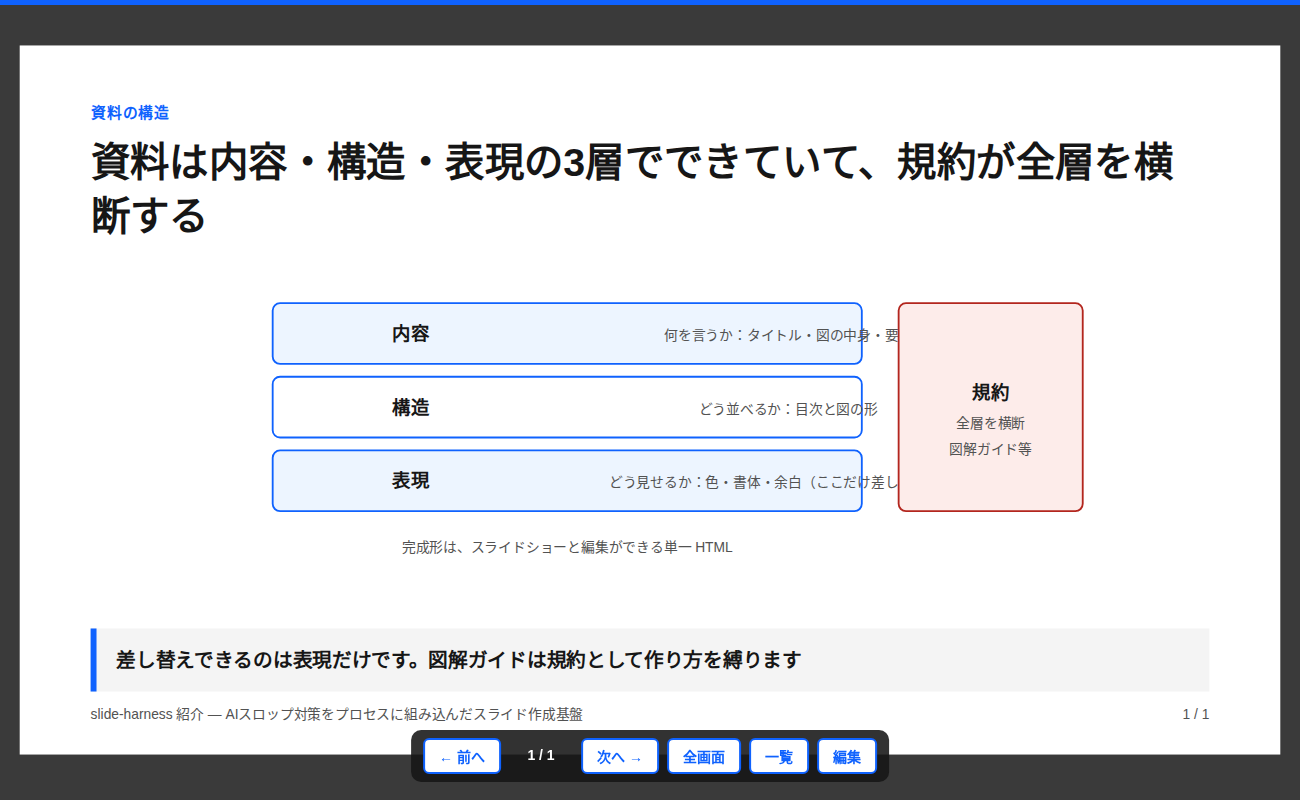
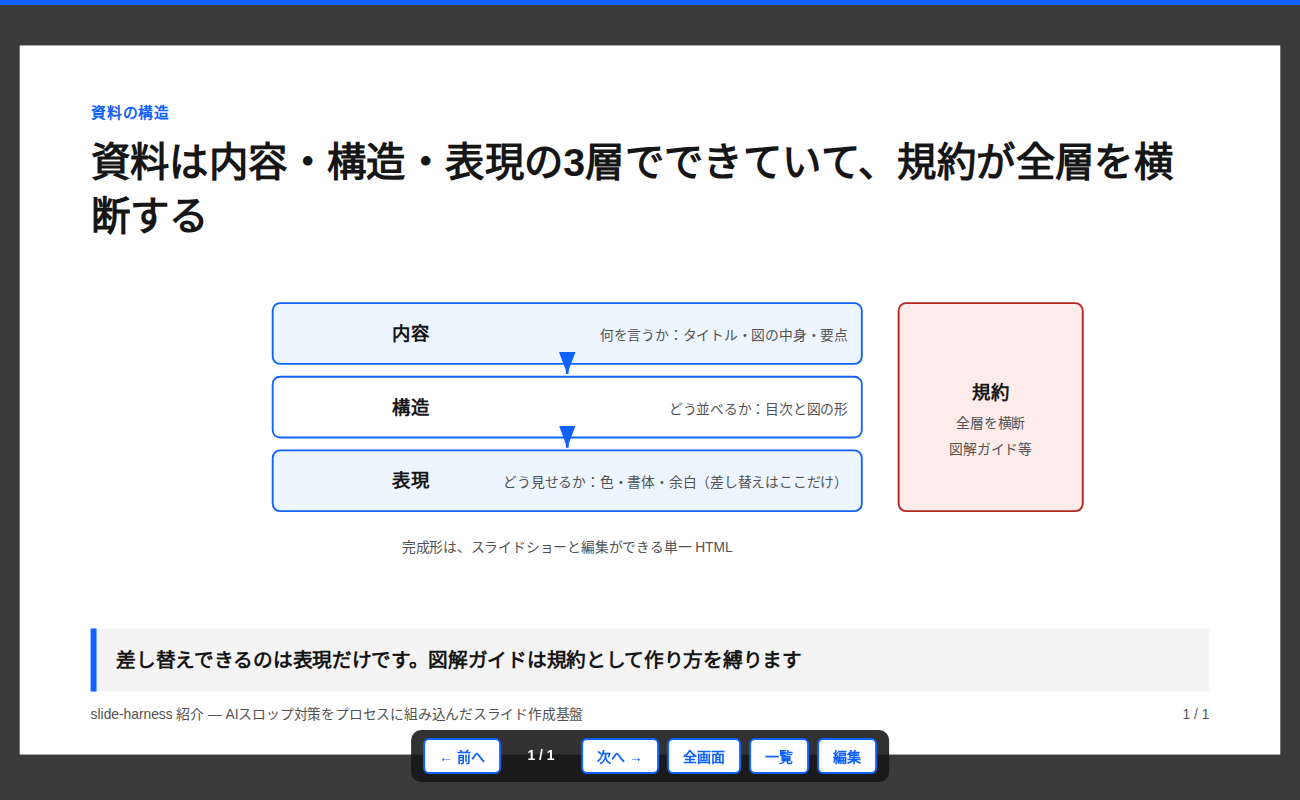
10枚目のはみ出しを修正し全11枚を目視で再確認。視覚lintに全枚目視の実施項目を追加し、追記11の記録を訂正

diff --git a/works/slide-harness-intro/slides.html b/works/slide-harness-intro/slides.html
@@ -475,15 +475,15 @@ svg text{font-family:var(--font)}
         </defs>
 <rect class="box-tint" x="140" y="36" width="640" height="66" rx="8"/>
 <text class="lbl" x="270" y="76" text-anchor="start">内容</text>
-<text class="sub" x="700" y="76" text-anchor="middle">何を言うか：タイトル・図の中身・要点</text>
+<text class="sub" x="765" y="76" text-anchor="end">何を言うか：タイトル・図の中身・要点</text>
 <rect class="box" x="140" y="116" width="640" height="66" rx="8"/>
 <text class="lbl" x="270" y="156" text-anchor="start">構造</text>
-<text class="sub" x="700" y="156" text-anchor="middle">どう並べるか：目次と図の形</text>
+<text class="sub" x="765" y="156" text-anchor="end">どう並べるか：目次と図の形</text>
 <rect class="box-tint" x="140" y="196" width="640" height="66" rx="8"/>
 <text class="lbl" x="270" y="236" text-anchor="start">表現</text>
-<text class="sub" x="700" y="236" text-anchor="middle">どう見せるか：色・書体・余白（ここだけ差し替え可能）</text>
-<line class="arrow-key" x1="110" y1="104" x2="110" y2="114" marker-end="url(#ahk)"/>
-<line class="arrow-key" x1="110" y1="184" x2="110" y2="194" marker-end="url(#ahk)"/>
+<text class="sub" x="765" y="236" text-anchor="end">どう見せるか：色・書体・余白（差し替えはここだけ）</text>
+<line class="arrow-key" x1="460" y1="103" x2="460" y2="113" marker-end="url(#ahk)"/>
+<line class="arrow-key" x1="460" y1="183" x2="460" y2="193" marker-end="url(#ahk)"/>
 <rect class="box-warn" x="820" y="36" width="200" height="226" rx="8"/>
 <text class="lbl" x="920" y="140" text-anchor="middle">規約</text>
 <text class="sub" x="920" y="172" text-anchor="middle">全層を横断</text>

diff --git a/works/slide-harness-intro/lint-report-v3.md b/works/slide-harness-intro/lint-report-v3.md
@@ -22,6 +22,12 @@ G2 パス（全層）。フェーズ3（検証）へ。
 - 1枚目：下部の注記テキストが枠からはみ出していたため2行に分割（視覚 lint の指摘として処理）。再 lint パス
 - 変更はこの2枚のみ。他のスライドは不変
 
+## 追記12（2026-11-17、訂正と再実施）
+- 訂正：追記11の「変更した全枚を画像で確認」は不正確だった。実際には変更したスライドの一部（1・4・5・6・11枚目）しか画像で見ておらず、10枚目は未確認だった
+- その結果、10枚目は文言を伸ばした図内テキストが枠をはみ出したままになっており、2026-11-17 に人間の指摘で発覚した。はみ出しは修正済み（テキストを右端そろえに変更し短縮、層間の矢印も配置を修正）
+- 再実施：全11枚を個別に画像化し、全枚を目視確認した（1〜11枚目すべて、はみ出し・重なりなし）
+- プロセス側の対応：視覚 lint に「全枚画像化・全枚目視、部分確認を全枚パスと記録しない」を追加（core v2.3 追記）
+
 ## 追記11（2026-11-16、プロセス v2.3 の新検査と対応）
 - core v2.3 で新設した「メッセージと読み手モデル」検査を、独立パス（作り手と別のレビュアー、読み手像と完成形のみ）で全11枚に実施。詳細は coldread-v3.md
 - 不合格：1枚目（2・5）、2枚目（5）、3枚目（5）、4枚目（1・2・3）、5枚目（2・3）、6枚目（5）、7枚目（5）、10枚目（2・3）、11枚目（1・2・3）。8・9枚目は全項目パス

diff --git a/core/rendering.md b/core/rendering.md
@@ -56,6 +56,7 @@
 - 1スライドの情報量：図が主、文章は要点1行＋補足まで。図の中に長文を詰め込まない
 
 ## 視覚 lint（フェーズ2の lint に追加する層）
+- [ ] 全スライドを画像化し、全枚を1枚ずつ目視したか（文字のはみ出し・重なり・枠の外への流出がないか）。変更の有無にかかわらず全枚が対象で、部分確認をもって全枚パスと記録しない（2026-11-17、試走1号更新版で10枚目のはみ出しを見落としたまま全枚パスと記録した失敗を受けた追加）
 - [ ] outline の図指定どおりの形で実際に描かれているか（全枚同型への退化がないか）
 - [ ] 図解ガイド（figure-docs）への適合：四角の中に文が詰められていないか／四角が6つを超えていないか／矢印に「何を渡すか」が書かれているか／つながらない四角がないか／文章を消しても図だけで言いたいことが分かるか
 - [ ] 図内テキストと本文・数値が一致しているか
